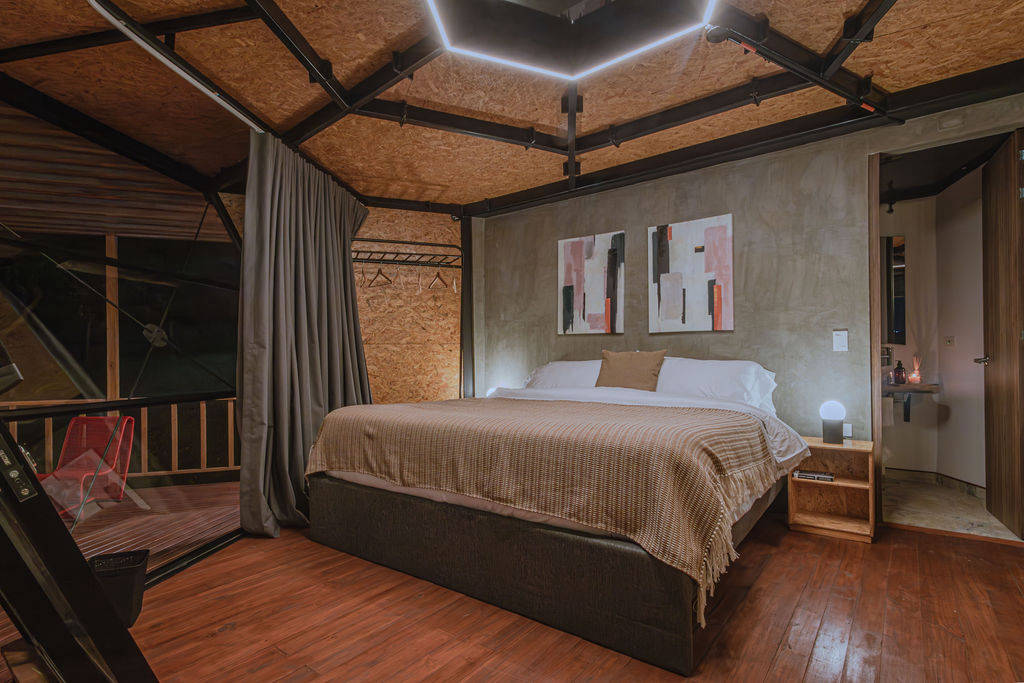
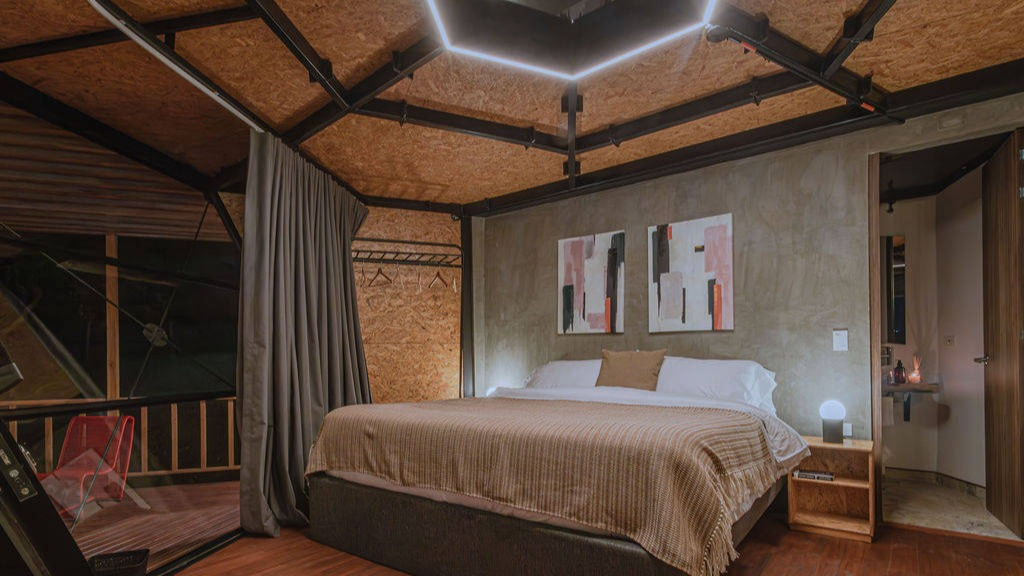
create github pages

diff --git a/gastronomia-shabbat.html b/gastronomia-shabbat.html
@@ -26,7 +26,7 @@
   <link href="assets/fonts/style.css" rel="stylesheet">
   <link rel="preload" href="https://fonts.googleapis.com/css?family=Montserrat:100,200,300,400,500,600,700,800,900,100i,200i,300i,400i,500i,600i,700i,800i,900i&display=swap" as="style" onload="this.onload=null;this.rel='stylesheet'">
   <noscript><link rel="stylesheet" href="https://fonts.googleapis.com/css?family=Montserrat:100,200,300,400,500,600,700,800,900,100i,200i,300i,400i,500i,600i,700i,800i,900i&display=swap"></noscript>
-  <link rel="preload" as="style" href="assets/mobirise/css/mbr-additional.css?v=gKtSsB"><link rel="stylesheet" href="assets/mobirise/css/mbr-additional.css?v=gKtSsB" type="text/css">
+  <link rel="preload" as="style" href="assets/mobirise/css/mbr-additional.css?v=Q7GCeK"><link rel="stylesheet" href="assets/mobirise/css/mbr-additional.css?v=Q7GCeK" type="text/css">
 
   
       <link rel="stylesheet" href="https://app.lobbypms.com/public/css/widget/lobby-date-rage-selector.min.css?v=LghRdeOtTCMUgsqmMnvxUJHNE">
@@ -294,7 +294,7 @@
 									<strong>Burritos</strong></h5>
 								<h6 class="item-subtitle mbr-fonts-style mt-1 display-7">
 									Burritos</h6>
-								<p class="mbr-text mbr-fonts-style mt-3 display-7">Dos rollitos de tortilla de harina, rellenos de exquisitos trocitos de pollo y champiñones salteados con orégano y un ligero toque de pimienta en salsa bechamel, mezclados con aceitunas en rodajas.<br>Decorados con salsa <em>Showy</em> y queso parmesano.<br><br><span class="fa fa-envira mbr-iconfont" style="font-size: 32px; color: rgb(63, 133, 91);"></span> También tenemos la versión vegetariana, tan solo suprimimos el pollo y añadimos más de <em>– todito el resto –</em>.<br><br><em>– ¡Mmm... ¿Solo como entrada? Esta delicia acompaña cualquier plato fuerte!</em><br><br><small><em><strong>¿Salsa Showy? </strong>Sí, la "amarillita", la inventada en el oriente antioqueño hace 30 años.</em></small></p>
+								<p class="mbr-text mbr-fonts-style mt-3 display-7">Dos rollitos de tortilla de harina, rellenos de exquisitos trocitos de pollo y champiñones salteados con orégano y un ligero toque de pimienta en salsa bechamel, mezclados con aceitunas en rodajas.<br>Decorados con salsa <em>Showy</em> y queso parmesano.<br><br><span class="fa fa-envira mbr-iconfont" style="font-size: 32px; color: rgb(63, 133, 91);"></span> También tenemos la versión vegetariana, tan solo suprimimos el pollo y añadimos más de <em>– todito el resto –</em>.<br><br><small><em><strong>¿Salsa Showy? </strong>Sí, la "amarillita", la inventada en el oriente antioqueño hace 30 años.</em></small></p>
 							</div>
 
 							
@@ -700,7 +700,7 @@
 				</h3>
 				<div class="form1 px-3" data-form-type="formoid">
 					<!---Formbuilder Form--->
-					<form action="https://mobirise.eu/" method="POST" class="mbr-form form-with-styler" data-form-title="My Mobirise Form"><input type="hidden" name="email" data-form-email="true" value="NCNyqy+p7TjRPrRU4iPCsgywBdgV8UJ59OcXYVSgMsQV54G2NQxg3JXNz78dk6r1kVVadXVXiIl/Laxnf8O6lK32PrTNdmUWnSOTi/Lib+Yti6gMV+2gBbdC7pxtF2XH.423m+N5b8fJC13118gWG36+Ife6bpHJcjigSPIFQQv8otjf1hSIw2dhcFlWT15GARUDQrW2VLyjSWdxSNezteIDjA626bPQxphXLnEXJ195Wf6hgzPmRBrRe3tOv9yUT">
+					<form action="https://mobirise.eu/" method="POST" class="mbr-form form-with-styler" data-form-title="My Mobirise Form"><input type="hidden" name="email" data-form-email="true" value="iZQ9ZnVzPULPQh/SjyjfQFQnJCecDtZeKew+qAYiAvyYHoLwHnvOGk2jRx5mF2eY99fw8jqU8UKoF4/A8+HEFHW/ITQNUdHpQc80kAhg0s7t04Hyer6M37NpyUm4W6FR.46glsQG2LQFT1Tvqb79mvrO6Gr2D9TZXYwMshE5HpCc2+1CpZg3Rf59Qjxlfmk0us2m4EA13cNu5i0JRQjfn9Gt/7UPJrfcGqJtpU8luMANhIG7r40q2plcKAyuHbCot">
 						<div class="row">
 							<div hidden="hidden" data-form-alert="" class="alert alert-success col-12">¡Gracias por suscribirte!</div>
 							<div hidden="hidden" data-form-alert-danger="" class="alert alert-danger col-12"></div>

diff --git a/index.html b/index.html
@@ -35,7 +35,7 @@
   <link href="assets/fonts/style.css" rel="stylesheet">
   <link rel="preload" href="https://fonts.googleapis.com/css?family=Montserrat:100,200,300,400,500,600,700,800,900,100i,200i,300i,400i,500i,600i,700i,800i,900i&display=swap" as="style" onload="this.onload=null;this.rel='stylesheet'">
   <noscript><link rel="stylesheet" href="https://fonts.googleapis.com/css?family=Montserrat:100,200,300,400,500,600,700,800,900,100i,200i,300i,400i,500i,600i,700i,800i,900i&display=swap"></noscript>
-  <link rel="preload" as="style" href="assets/mobirise/css/mbr-additional.css?v=1DQoR0"><link rel="stylesheet" href="assets/mobirise/css/mbr-additional.css?v=1DQoR0" type="text/css">
+  <link rel="preload" as="style" href="assets/mobirise/css/mbr-additional.css?v=q3LqvZ"><link rel="stylesheet" href="assets/mobirise/css/mbr-additional.css?v=q3LqvZ" type="text/css">
 
   
       <link rel="stylesheet" href="https://app.lobbypms.com/public/css/widget/lobby-date-rage-selector.min.css?v=LghRdeOtTCMUgsqmMnvxUJHNE">
@@ -279,7 +279,7 @@
                 
                 <div class="form1" data-form-type="formoid">
 <!--Formbuilder Form-->
-<form action="https://mobirise.eu/" method="POST" class="mbr-form form-with-styler" data-form-title="Shabbat Form"><input type="hidden" name="email" data-form-email="true" value="YO70+b07BmVivKV7S9m+a/pyzIYAqggJAOPsBCmoJaoeJGmT0VnheQ/3aUep/P3CQ5cClE+mCoevM9MSkT+Yhm1z3LyiKXgYsofbjvrxpgrlNShGPStMXVpS4Va6bRIn.NzmMqOAOVUwhKUKEiB9ncMcrUz2cKf8Rg6wAjK4FHw4qXEKq/PP6Y2L53LcF9NItmAGg0GECl3Kegtl/44vZAhhgNPag1CpYBHjLWFz/kr1wimT99MRTdOD/rx8wlwKF">
+<form action="https://mobirise.eu/" method="POST" class="mbr-form form-with-styler" data-form-title="Shabbat Form"><input type="hidden" name="email" data-form-email="true" value="2Jahj/AfbC9dz451clfHWq1N6QMBObJE/17I248HNhAWYv0bpriQ14mokC5jStpOjMy/TRHiEJmi1t1Op9w05DoS6eNMO2Pb5gHrpReTAIqYI1kzegRt8B549kQJQTmV.L5YMPQRSqTUQSHWfsQeINJv/JZrxTxY6aznIDCWOf8ylzPVRor1tWSQG3+B1wou7a+/PjBY9mt0MM/8MoOoQW56tGbUfr2yobJhYfiD4r55scF7ZKpRqdheZr64kcZ8n">
 <div class="row">
 <div hidden="hidden" data-form-alert="" class="alert alert-success col-12">¡Gracias por escribirnos!</div>
 <div hidden="hidden" data-form-alert-danger="" class="alert alert-danger col-12">
@@ -414,7 +414,7 @@
 				</h3>
 				<div class="form1 px-3" data-form-type="formoid">
 					<!---Formbuilder Form--->
-					<form action="https://mobirise.eu/" method="POST" class="mbr-form form-with-styler" data-form-title="My Mobirise Form"><input type="hidden" name="email" data-form-email="true" value="soZ+Iwt0ug4ORgMq16Jot9Gw5WtGor99B2CO+L9hybOcvgyrZpnYz27iqNSWkE9xLMUBKXcv5rKJ+P+hTZlNbhevX7tIiOV53awhC7q4pO78SifupWtbFq73MZepuc9/.gMaf0EctALD/HLYhhs+EFJ5ln31jgZ6mH5xNm3pFZxNshbYAFHzAY+9cUqxidLi//bxmF54qtp544kyhkIYJCtvkpRk3Vn50gvTV2829YozXk0UXEi0p/8DZligEPK7N">
+					<form action="https://mobirise.eu/" method="POST" class="mbr-form form-with-styler" data-form-title="My Mobirise Form"><input type="hidden" name="email" data-form-email="true" value="etGoflalYxckcYiJrti+bJG0kXC4ERVf8EL1JEKdFG71uJa064LrH87oz37broxoUEu1ORROzen1BNgtGM9FSGRpjPQE/kyOPN8zKHCRk4w8C43Zri+sTDG4yn0rtNKX.q/u334VlLgqg/rA/seYrf/S/ff8wYcf4Bk19tWSrKQsRM/V5aWFCp8nBXooohHHcG0L9EejdxZ7FNJEdAIyWsWS2etXU6Nzcwgq8E9clgqWfng0ex8r54qZujOtyaAHW">
 						<div class="row">
 							<div hidden="hidden" data-form-alert="" class="alert alert-success col-12">¡Gracias por suscribirte!</div>
 							<div hidden="hidden" data-form-alert-danger="" class="alert alert-danger col-12"></div>

diff --git a/bienestar-shabbat.html b/bienestar-shabbat.html
@@ -28,7 +28,7 @@
   <link href="assets/fonts/style.css" rel="stylesheet">
   <link rel="preload" href="https://fonts.googleapis.com/css?family=Montserrat:100,200,300,400,500,600,700,800,900,100i,200i,300i,400i,500i,600i,700i,800i,900i&display=swap" as="style" onload="this.onload=null;this.rel='stylesheet'">
   <noscript><link rel="stylesheet" href="https://fonts.googleapis.com/css?family=Montserrat:100,200,300,400,500,600,700,800,900,100i,200i,300i,400i,500i,600i,700i,800i,900i&display=swap"></noscript>
-  <link rel="preload" as="style" href="assets/mobirise/css/mbr-additional.css?v=Kmfzt8"><link rel="stylesheet" href="assets/mobirise/css/mbr-additional.css?v=Kmfzt8" type="text/css">
+  <link rel="preload" as="style" href="assets/mobirise/css/mbr-additional.css?v=xfQOuE"><link rel="stylesheet" href="assets/mobirise/css/mbr-additional.css?v=xfQOuE" type="text/css">
 
   
       <link rel="stylesheet" href="https://app.lobbypms.com/public/css/widget/lobby-date-rage-selector.min.css?v=LghRdeOtTCMUgsqmMnvxUJHNE">
@@ -256,7 +256,7 @@
 				</h3>
 				<div class="form1 px-3" data-form-type="formoid">
 					<!---Formbuilder Form--->
-					<form action="https://mobirise.eu/" method="POST" class="mbr-form form-with-styler" data-form-title="My Mobirise Form"><input type="hidden" name="email" data-form-email="true" value="RaA/MOZmvglB1Qe5VdTmnOg2oEPfC5tugL579QS8OQ8kKOFqsrlf1zh/FV4/KcLroOjRZc4E9WWqeYU8Hyo1Jx5DxqUtfZwxLvlItwm0UKBHw21bjyp8281JnoPw3p5l.Mhbx8DhnJO1ngPWTRhXmmynigdKVuYSoL3aOPR2imiA/Z70wzJh+9WsiXCPr+iajjITyhXweO5UnWcsgLeGL76poo+aZlX4t2pal4xYjha/uUfy51nR6HQFQaFME5Bra">
+					<form action="https://mobirise.eu/" method="POST" class="mbr-form form-with-styler" data-form-title="My Mobirise Form"><input type="hidden" name="email" data-form-email="true" value="GCfTIMAHhvOAMBj+010hsduzpHHAX2/SMbcGfRmRCuAn172/3BdoucufUs75DHHk33hXYMaCvqV/Ea72bnD2mG81IV5wnvYx/zKF434ChMdYBSTh+IlQ9lqb+zQhrRX8.fZr896Tmm+EjPWq6Y5Me92fWtGPPBQLOh91iP3nZbjy/JLW+rfe71m/i3UojRqCGHq9Ve0XduYT//MA0R90+fmn8UsgXfPgcz6gicLZ6xNlINZyoJHP8uwyVJGi1dI0/">
 						<div class="row">
 							<div hidden="hidden" data-form-alert="" class="alert alert-success col-12">¡Gracias por suscribirte!</div>
 							<div hidden="hidden" data-form-alert-danger="" class="alert alert-danger col-12"></div>

diff --git a/chalets-shabbat.html b/chalets-shabbat.html
@@ -29,7 +29,7 @@
   <link href="assets/fonts/style.css" rel="stylesheet">
   <link rel="preload" href="https://fonts.googleapis.com/css?family=Montserrat:100,200,300,400,500,600,700,800,900,100i,200i,300i,400i,500i,600i,700i,800i,900i&display=swap" as="style" onload="this.onload=null;this.rel='stylesheet'">
   <noscript><link rel="stylesheet" href="https://fonts.googleapis.com/css?family=Montserrat:100,200,300,400,500,600,700,800,900,100i,200i,300i,400i,500i,600i,700i,800i,900i&display=swap"></noscript>
-  <link rel="preload" as="style" href="assets/mobirise/css/mbr-additional.css?v=3GhQvk"><link rel="stylesheet" href="assets/mobirise/css/mbr-additional.css?v=3GhQvk" type="text/css">
+  <link rel="preload" as="style" href="assets/mobirise/css/mbr-additional.css?v=kS5Jyn"><link rel="stylesheet" href="assets/mobirise/css/mbr-additional.css?v=kS5Jyn" type="text/css">
 
   
       <link rel="stylesheet" href="https://app.lobbypms.com/public/css/widget/lobby-date-rage-selector.min.css?v=LghRdeOtTCMUgsqmMnvxUJHNE">
@@ -204,7 +204,7 @@
 				</h3>
 				<div class="form1 px-3" data-form-type="formoid">
 					<!---Formbuilder Form--->
-					<form action="https://mobirise.eu/" method="POST" class="mbr-form form-with-styler" data-form-title="My Mobirise Form"><input type="hidden" name="email" data-form-email="true" value="NXV79eK2RETfwjt32v996G25tuiiEhRskcjtaVhS4GD2Lqo9d5462215hlSUR8BEdIn+GrsJGeQjlPdG8+pz+jN+pkMtWDAfORQHp71d9z+31lJQb1FQAjOOYxCDIkEg.RHTwX5Dp+xRTr2eRMXOgYjzmLyy8o9iqKlte6vWvRtSND8R/F2kCmVSXP31Wr7FHpo9ZWSG7X5C7NdVlcCovUCsI8OOAcZFa5m7h/Vn2sjcCjL0wGbpMExG0isCJpptd">
+					<form action="https://mobirise.eu/" method="POST" class="mbr-form form-with-styler" data-form-title="My Mobirise Form"><input type="hidden" name="email" data-form-email="true" value="EDthViqeqsNxur5lxI12kOI5KCQhiMngP1hWOF5AAre/KVOBkP6iDWl/3/CH/96rW4e3aldXiDpeqjy7ab3eq108TrpWlpqkQoj2CHmA3wEjUEVUbv/29ksB3FLp6EV4.qQqxuXOdXG0WltZ3IDbt0RHUv2cA/4NMDSfN90+S+x5QmnSZbKbAfjTx/b6L365DpqCM27zPrO+ZgTApjYNgMxMxrHlJbmHTvAdYhDYAVlkmA3JiyG9Lf+8aR3wbj+Z4">
 						<div class="row">
 							<div hidden="hidden" data-form-alert="" class="alert alert-success col-12">¡Gracias por suscribirte!</div>
 							<div hidden="hidden" data-form-alert-danger="" class="alert alert-danger col-12"></div>

diff --git a/gastro-2024.html b/gastro-2024.html
@@ -30,7 +30,7 @@
   <link href="assets/fonts/style.css" rel="stylesheet">
   <link rel="preload" href="https://fonts.googleapis.com/css?family=Montserrat:100,200,300,400,500,600,700,800,900,100i,200i,300i,400i,500i,600i,700i,800i,900i&display=swap" as="style" onload="this.onload=null;this.rel='stylesheet'">
   <noscript><link rel="stylesheet" href="https://fonts.googleapis.com/css?family=Montserrat:100,200,300,400,500,600,700,800,900,100i,200i,300i,400i,500i,600i,700i,800i,900i&display=swap"></noscript>
-  <link rel="preload" as="style" href="assets/mobirise/css/mbr-additional.css?v=XlHXrU"><link rel="stylesheet" href="assets/mobirise/css/mbr-additional.css?v=XlHXrU" type="text/css">
+  <link rel="preload" as="style" href="assets/mobirise/css/mbr-additional.css?v=rkKywy"><link rel="stylesheet" href="assets/mobirise/css/mbr-additional.css?v=rkKywy" type="text/css">
 
   
       <link rel="stylesheet" href="https://app.lobbypms.com/public/css/widget/lobby-date-rage-selector.min.css?v=LghRdeOtTCMUgsqmMnvxUJHNE">
@@ -667,7 +667,7 @@
 				</h3>
 				<div class="form1 px-3" data-form-type="formoid">
 					<!---Formbuilder Form--->
-					<form action="https://mobirise.eu/" method="POST" class="mbr-form form-with-styler" data-form-title="My Mobirise Form"><input type="hidden" name="email" data-form-email="true" value="HcIJhe9t28behqVNCV9SYDtTdKkKu3TOUMkSY4Onxu76ryoZT871ZFmdv5tfJtPtPV1jwbbl886LWwBMiqPcu24QUQ68l/DTLIjTFEeLAb/iQZ095afjP20Q+O9vhYO3.G3SLyE61QlkcY4/NBiSBi7r4R0SCsSdHgv+Nkqg74ucTzfmu9HtNNGtxSUm2MjQPymbnVXEV7bz8P7yqOtxsr9D1at3K6gZM2+REEACdi1WCRP45NztGqDsGCW3eRAPa">
+					<form action="https://mobirise.eu/" method="POST" class="mbr-form form-with-styler" data-form-title="My Mobirise Form"><input type="hidden" name="email" data-form-email="true" value="ifDiBb5TgP9ntvFVHgOCodTemyTwCK1MOo5diWj7/w/b303tjKtPK3/9Lu09FkcLB3HKnTgfRfjWMAulcXsJVcQVINzUXrZgPqMjniI9+BQNAJC148MAXCzpLL79VzQY.Oaad5A4/0ZRXYZTNNELYUrpm3RaigXKV5M28CdKC//Jt8wC0fy34YziDcrVc8Qn4zxIm3Sb6r4JGiFEQq+hGD8TY1dCFt+83JE8YxwJW1oBOovfZjdCySoKduS0nuRPk">
 						<div class="row">
 							<div hidden="hidden" data-form-alert="" class="alert alert-success col-12">¡Gracias por suscribirte!</div>
 							<div hidden="hidden" data-form-alert-danger="" class="alert alert-danger col-12"></div>

diff --git a/shabbat-hotel-experiencia.html b/shabbat-hotel-experiencia.html
@@ -29,7 +29,7 @@
   <link href="assets/fonts/style.css" rel="stylesheet">
   <link rel="preload" href="https://fonts.googleapis.com/css?family=Montserrat:100,200,300,400,500,600,700,800,900,100i,200i,300i,400i,500i,600i,700i,800i,900i&display=swap" as="style" onload="this.onload=null;this.rel='stylesheet'">
   <noscript><link rel="stylesheet" href="https://fonts.googleapis.com/css?family=Montserrat:100,200,300,400,500,600,700,800,900,100i,200i,300i,400i,500i,600i,700i,800i,900i&display=swap"></noscript>
-  <link rel="preload" as="style" href="assets/mobirise/css/mbr-additional.css?v=jIP2YE"><link rel="stylesheet" href="assets/mobirise/css/mbr-additional.css?v=jIP2YE" type="text/css">
+  <link rel="preload" as="style" href="assets/mobirise/css/mbr-additional.css?v=3Qo2j6"><link rel="stylesheet" href="assets/mobirise/css/mbr-additional.css?v=3Qo2j6" type="text/css">
 
   
       <link rel="stylesheet" href="https://app.lobbypms.com/public/css/widget/lobby-date-rage-selector.min.css?v=LghRdeOtTCMUgsqmMnvxUJHNE">
@@ -374,7 +374,7 @@
 				</h3>
 				<div class="form1 px-3" data-form-type="formoid">
 					<!---Formbuilder Form--->
-					<form action="https://mobirise.eu/" method="POST" class="mbr-form form-with-styler" data-form-title="My Mobirise Form"><input type="hidden" name="email" data-form-email="true" value="vCpZGl0EzOysMykyOl5QZ7PG35zjG2IaakTondGd87G7TULjcTQ1OWcTC64rCWeugE8OQcBFVeFzcliSVfgPhlKH9qJkscTrlhD5ko/tKO52PQvhXnoKSrw0GPfij3aE.COLdjuHKyJhj0Y+2l9pANF+LvihNlrJhzK5XmWnmSQWyjj/Q3FTAp+Xt7qGOxfJrNtKLczWLWG+JoQ41w2gPfCCHmQ/OME8om2xokchXqoF3NzH8Dlr5hlxWJBUok+m+">
+					<form action="https://mobirise.eu/" method="POST" class="mbr-form form-with-styler" data-form-title="My Mobirise Form"><input type="hidden" name="email" data-form-email="true" value="nPbENR+XdvP6xAS7IMt3Mt/IaJOg491gb3PEGBKDONYP17zFloP0rIJqWGTNxXGZw5SQJgqwnzx76OV3HWWL/rqrGUGQ/G1zZjVfUn2tke3TFrh9xinJk2bC4huMmKaR.JPkD3kGt9RUwwyOf0N2dRZxlbjo3c3TL6iD1ibus1otpIiXFy94fPkRCmA02U5udeyg7LyHxUiLqnzdiZSHORTDTM4RIXrzylLHlfZcwdVPUiqvzzk3D+7zkzYem5TrX">
 						<div class="row">
 							<div hidden="hidden" data-form-alert="" class="alert alert-success col-12">¡Gracias por suscribirte!</div>
 							<div hidden="hidden" data-form-alert-danger="" class="alert alert-danger col-12"></div>
